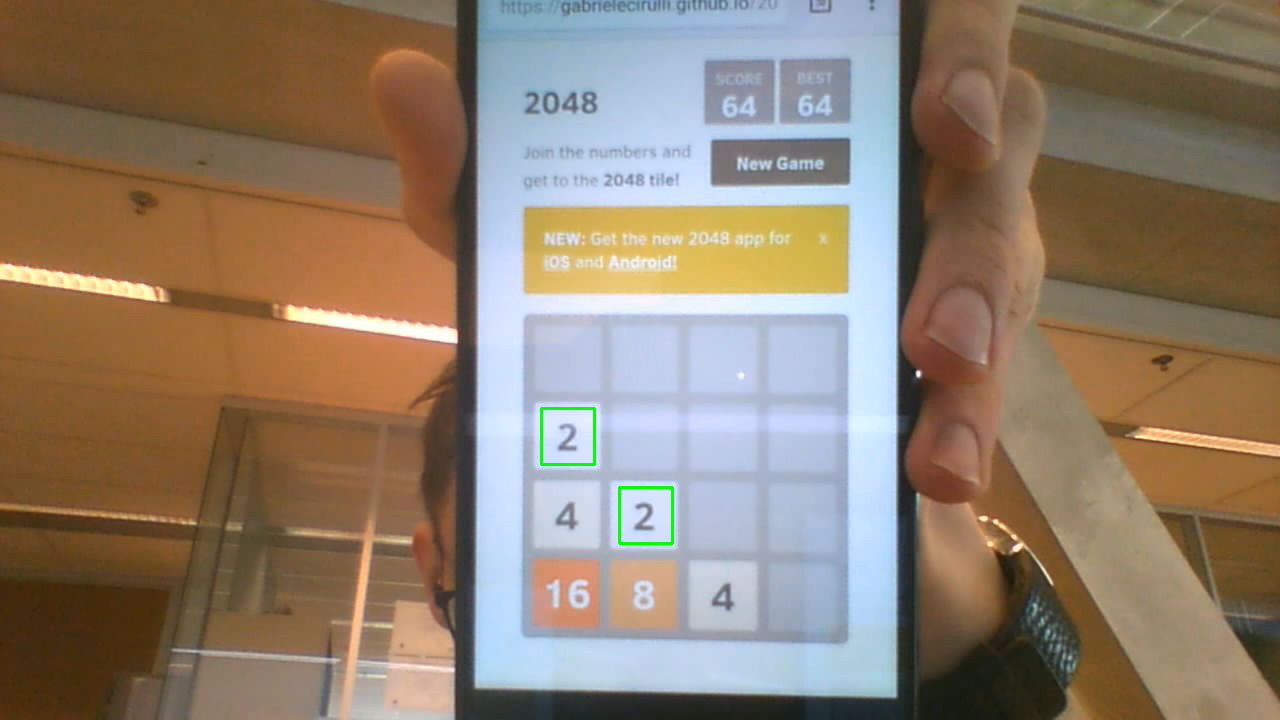
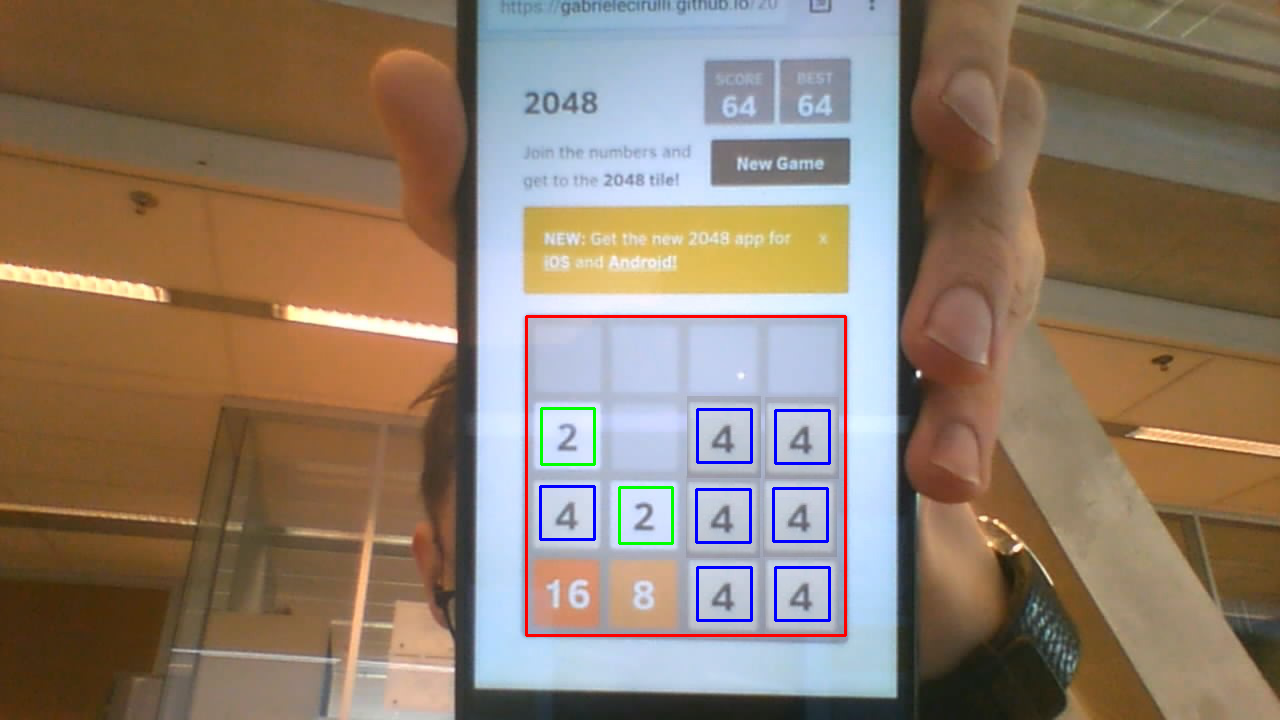
vision updates

Changed region(s): [[0.4062, 0.55, 0.6562, 0.8861], [0.4062, 0.4278, 0.6562, 0.4583], [0.4062, 0.6722, 0.4688, 0.7639]]

diff --git a/robotVision/detection.py b/robotVision/detection.py
@@ -4,13 +4,15 @@ import cv2
 import numpy as np
 from matplotlib import pyplot as plt
 
-img_rgb = cv2.imread('test5.jpg')
+img_rgb = cv2.imread('test9.jpg')
 img_gray = img_gray = cv2.cvtColor(img_rgb, cv2.COLOR_BGR2GRAY)
-template = cv2.imread('template_2_big.png',0)
-w, h = template.shape[::-1]
+template = cv2.imread('templates/template_2_big.png',0)
+template2 = cv2.imread('templates/template_4_big.png',0)
+template3 = cv2.imread('templates/template_field.png',0)
 
 
-def getMatches(template):
+def getMatches(template,color):
+    w, h = template.shape[::-1]
     res = cv2.matchTemplate(img_gray,template,cv2.TM_CCOEFF_NORMED)
     threshold = 0.8
     loc = np.where(res >= threshold)
@@ -24,8 +26,13 @@ def getMatches(template):
         if is_invalid_match:
             continue
         print(pt)
-        cv2.rectangle(img_rgb, pt, (pt[0] + w, pt[1] + h), (0,255,0), 2)
+        cv2.rectangle(img_rgb, pt, (pt[0] + w, pt[1] + h), color , 2)
         last_pts.append(pt)
-        cv2.imwrite('res.png',img_rgb)
 
-getMatches(template)
+
+getMatches(template,(0,255,0))
+getMatches(template2,(255,0,0))
+getMatches(template3,(0,0,255))
+
+
+cv2.imwrite('res.png',img_rgb)
